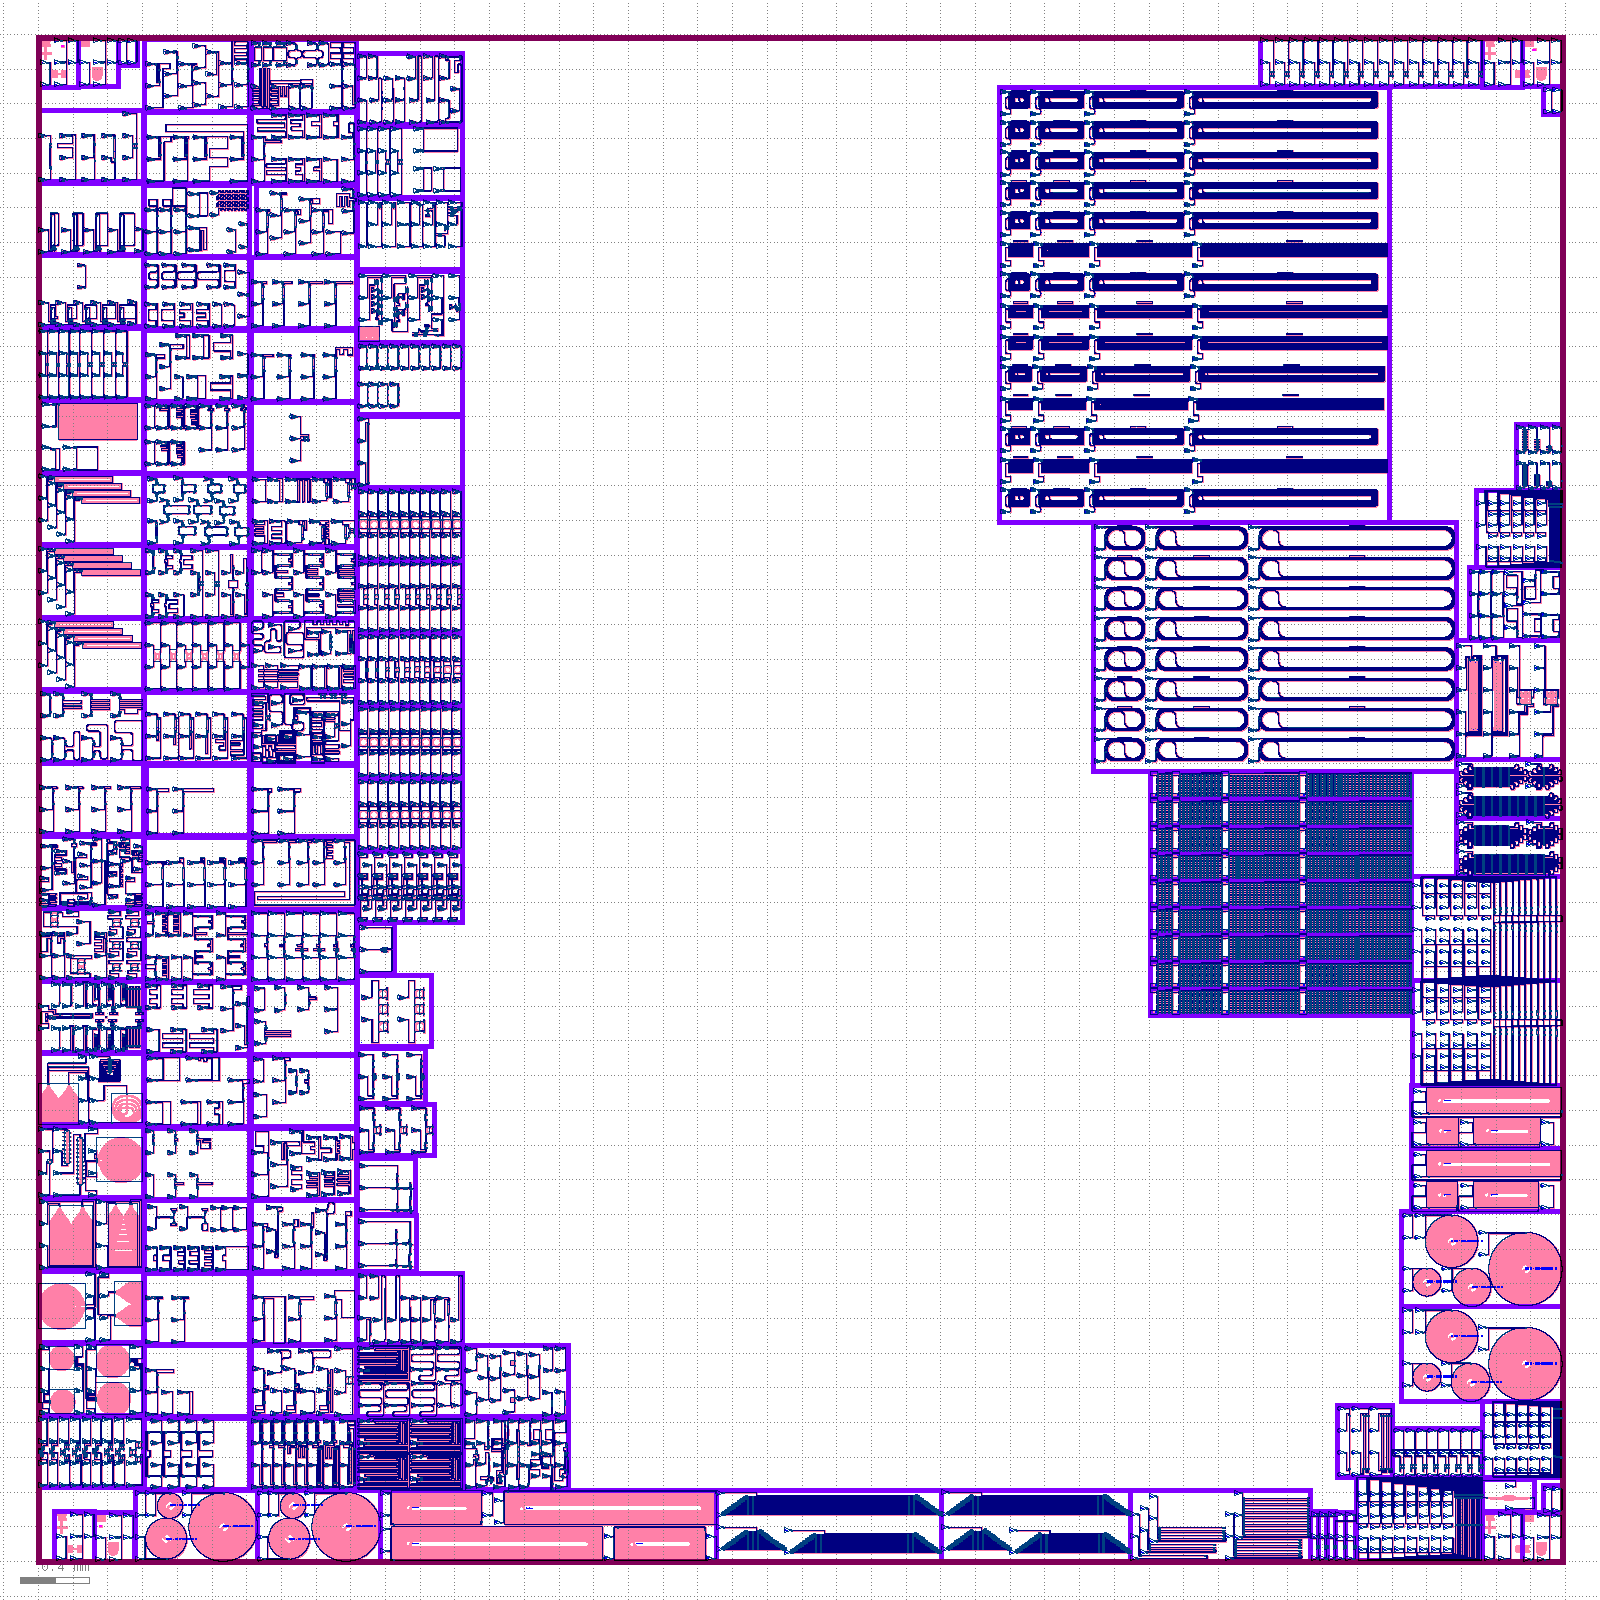
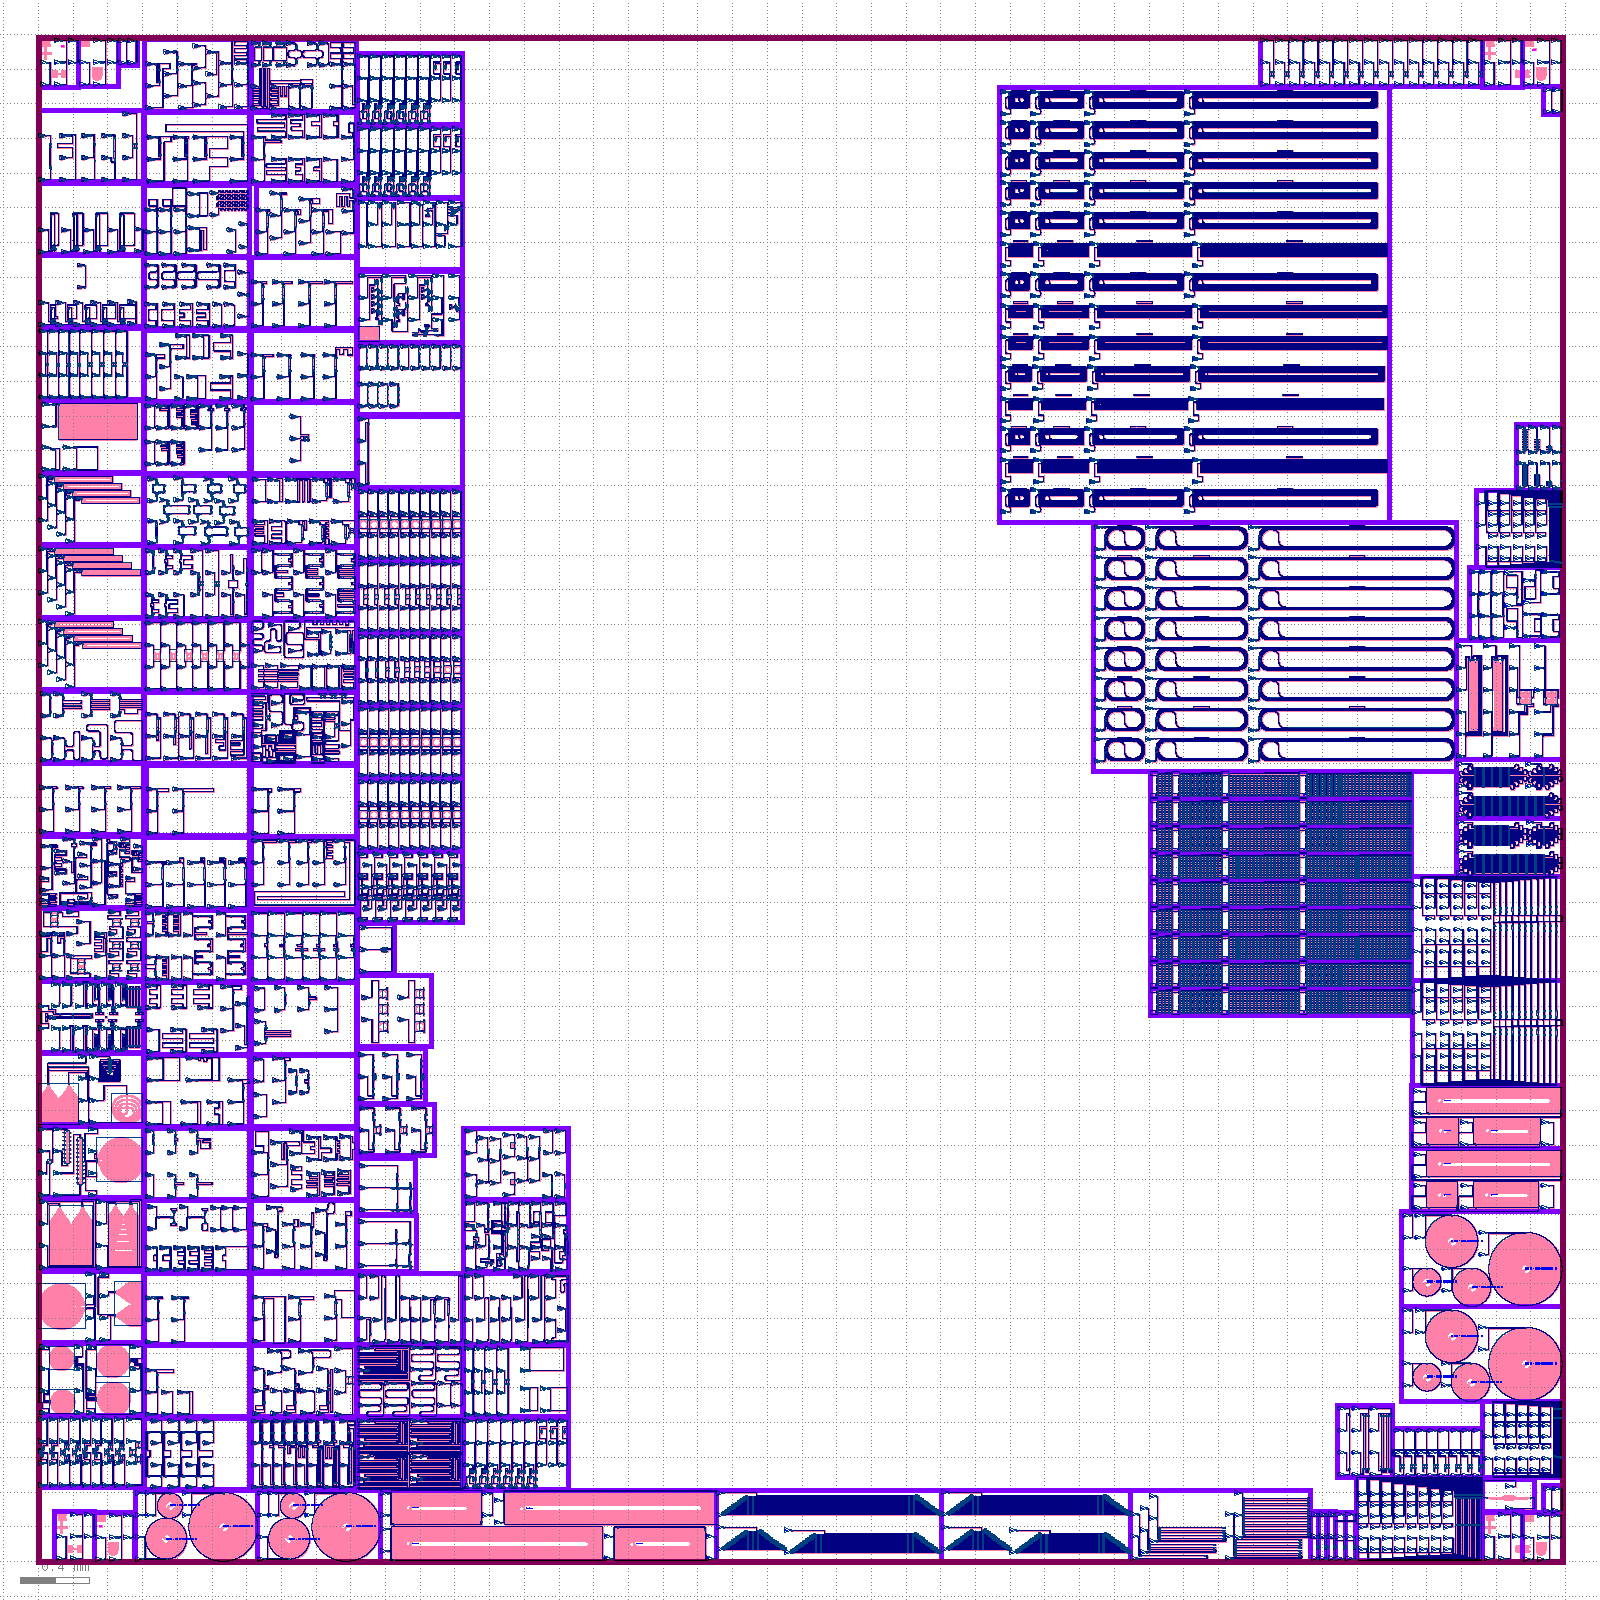
Aggregation layout: https://github.com/SiEPIC/openEBL-2026-05/actions/runs/25921303764/artifacts/7018505024

Changed region(s): [[0.2812, 0.6875, 0.375, 0.9375], [0.2188, 0.0312, 0.3125, 0.125]]

diff --git a/README.md b/README.md
@@ -91,5 +91,5 @@ Will be added here.
 
 Click on the following link to download the EBeam.oas merged layout file:
 <!-- start-link -->
-https://github.com/SiEPIC/openEBL-2026-05/actions/runs/25920980290/artifacts/7018368231
+https://github.com/SiEPIC/openEBL-2026-05/actions/runs/25921303764/artifacts/7018505024
 <!-- end-link -->